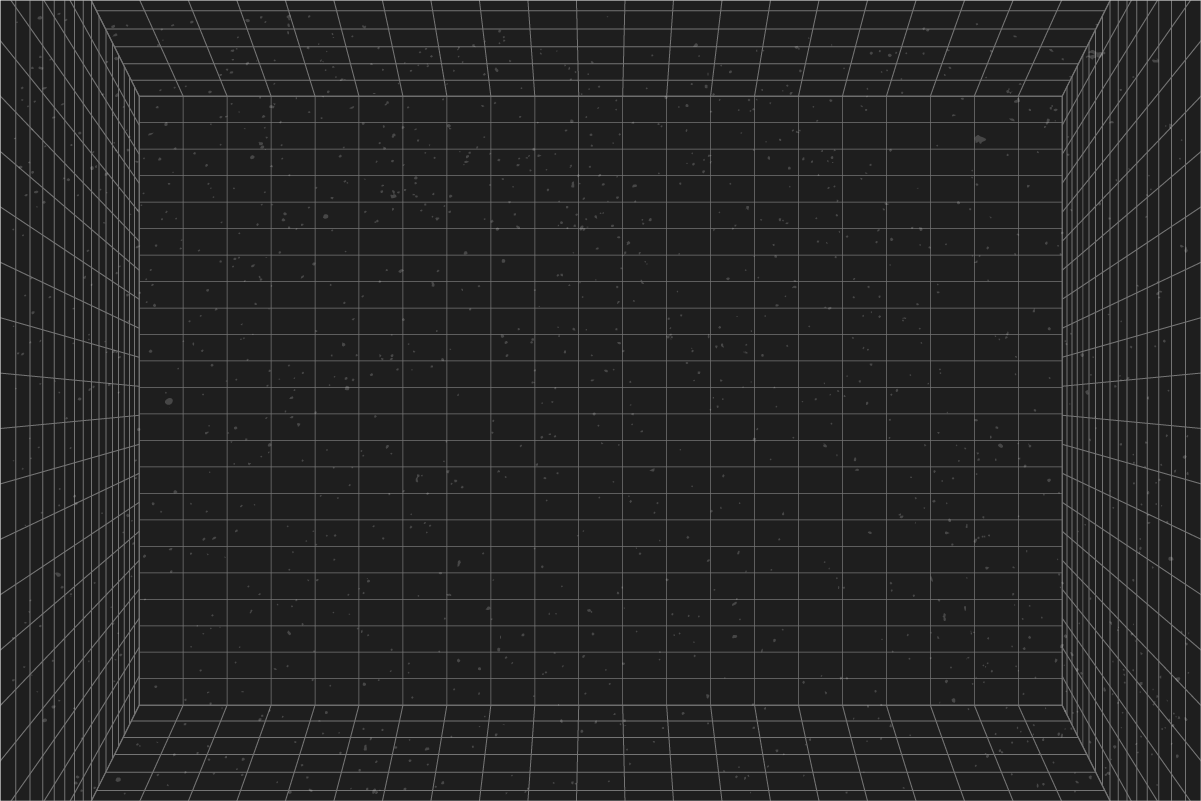
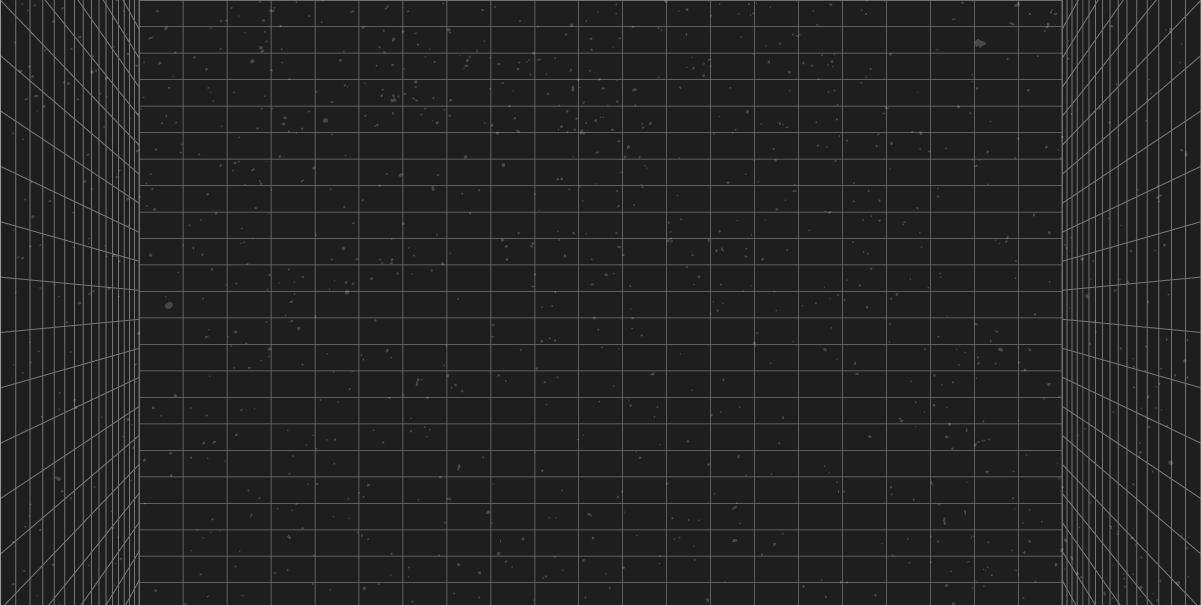
patch après réunion

diff --git a/public/css/style.css b/public/css/style.css
@@ -198,7 +198,7 @@ h2{
     position: absolute;
     left: -8%;
     top: 0;
-    font-size: 22px;
+    font-size: 24px;
     color: #FFD433 ;
     font-family: Qualy;
     letter-spacing: 2px;
@@ -325,14 +325,13 @@ h2{
 .flex-solution{
     display: flex;
     justify-content: space-around;
-    align-items: center;
+    align-items: stretch;
 }
 
 .flexcolumncat{
     display: flex;
     flex-direction: column;
-    gap: 80px;
-    justify-content: center;
+    justify-content: space-between;
     width: 220px;
 }
 
@@ -351,19 +350,8 @@ h2{
     transition: margin-left 250ms ease-in, box-shadow 250ms ease-in;
 }
 
-.rectbleu{
-    width: 40px;
-    height: 70px;
-    background-color: #94C8EE;
-    border: solid #303030 8px;
-    position: absolute;
-    top: -35px;
-    left: -20px;
-}
-
-
 .safecard{
-    width: 45%;
+    width: 49%;
     height: 78vh;
 }
 
@@ -377,6 +365,7 @@ h2{
     align-items: center;
     justify-content: center;
     position: relative;
+    box-shadow: 10px 10px 0px #94C8EE;
 }
 
 .cardsol article{
@@ -480,7 +469,7 @@ h2{
     background-image: url("../img/grille.png");
     background-size: 108%;
     background-position: 45%;
-    height: 95vh;
+    height: 100vh;
     min-height: 620px;
     background-attachment: fixed;
 }
@@ -488,6 +477,7 @@ h2{
 #savoir-faire p{
     font-family: Roboto;
     text-align: center;
+    margin-top: 40px;
 }
 
 
@@ -509,8 +499,8 @@ h2{
     display: flex;
     justify-content: space-between;
     align-items: center;
-    padding-top: 80px;
-    padding-bottom: 80px;
+    padding-top: 50px;
+    padding-bottom: 50px;
 }
 
 .flexclient{
@@ -527,7 +517,7 @@ h2{
 #contact{
     background-image: url("../img/grille.png");
     background-size: 108%;
-    background-position: 45%;
+    background-position: 20% 30%;
     height: 100vh;
     min-height: 750px;
     background-attachment: fixed;
@@ -547,6 +537,8 @@ h2{
 .formulaire{
     padding-top: 100px;
     padding-bottom: 80px;
+    margin-right: 10px;
+    margin-left: -10px;
 }
 
 .firstflexform{
@@ -555,6 +547,7 @@ h2{
     gap: 50px;
     justify-content: flex-start;
     align-items: flex-start;
+    margin-right: 30px;
 }
 
 .secondflexform{
@@ -568,6 +561,7 @@ h2{
 .flexline{
     display: flex;
     justify-content: space-between;
+    flex-wrap: wrap;
 }
 
 .formulaire textarea{
@@ -661,7 +655,7 @@ h2{
 
 .btn-right{
     display: flex;
-    justify-content: flex-end;
+    justify-content: center;
 }
 
 #footer{
@@ -763,13 +757,13 @@ h2{
 }
 
 #savoir-faire .logoslide{
-    width: 100%;
+    width: 60%;
     display: block;
     margin: 20px auto 20px auto;
 }
 
-.flexswipe div{
-    padding: 10px;
+.flexswipe > div{
+    padding: 40px 20px 40px 20px;
 }
 
 .swiper-wrapper{
@@ -795,6 +789,10 @@ h2{
     padding-bottom: 50px;
     overflow: hidden;
     height: 460px;
+}
+
+#savoir-faire .swiper-slide{
+    transition: opacity 0.5s ease-out !important;
 }
 
 .alignswipecenter{
